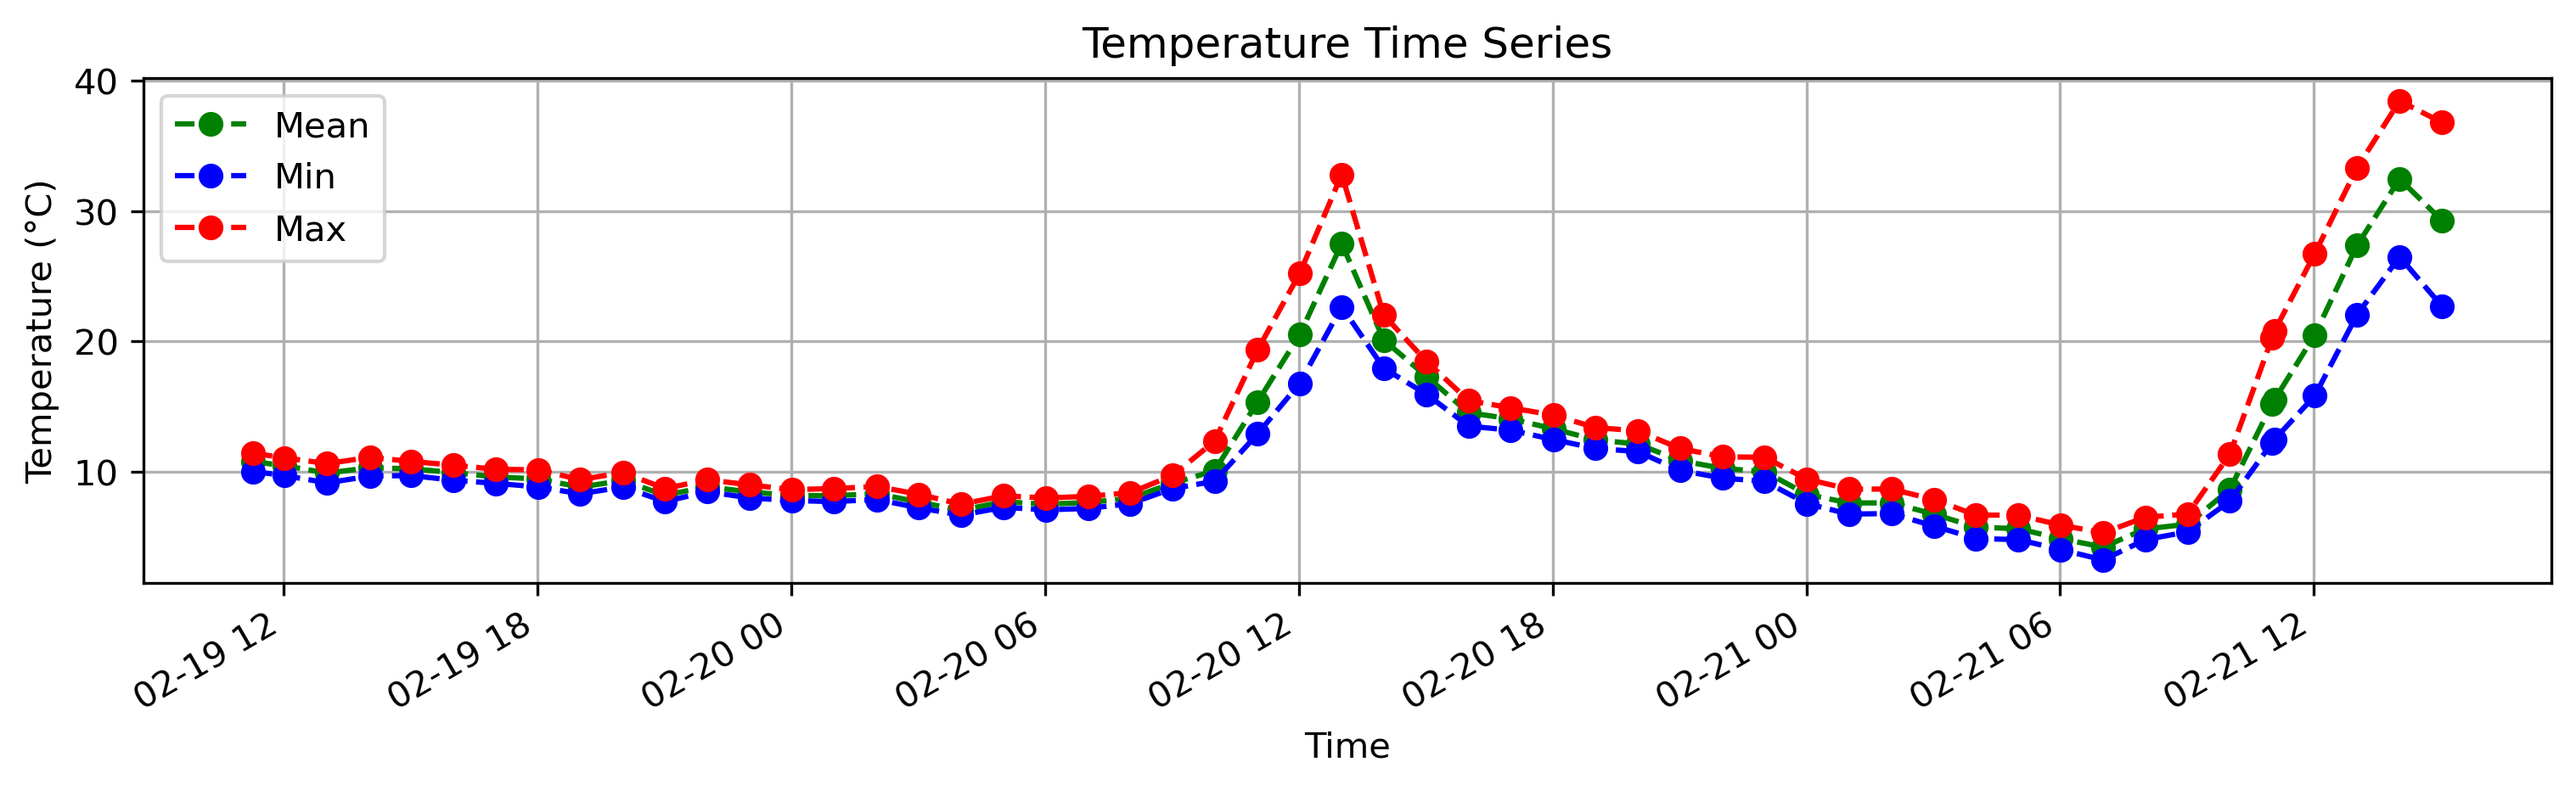
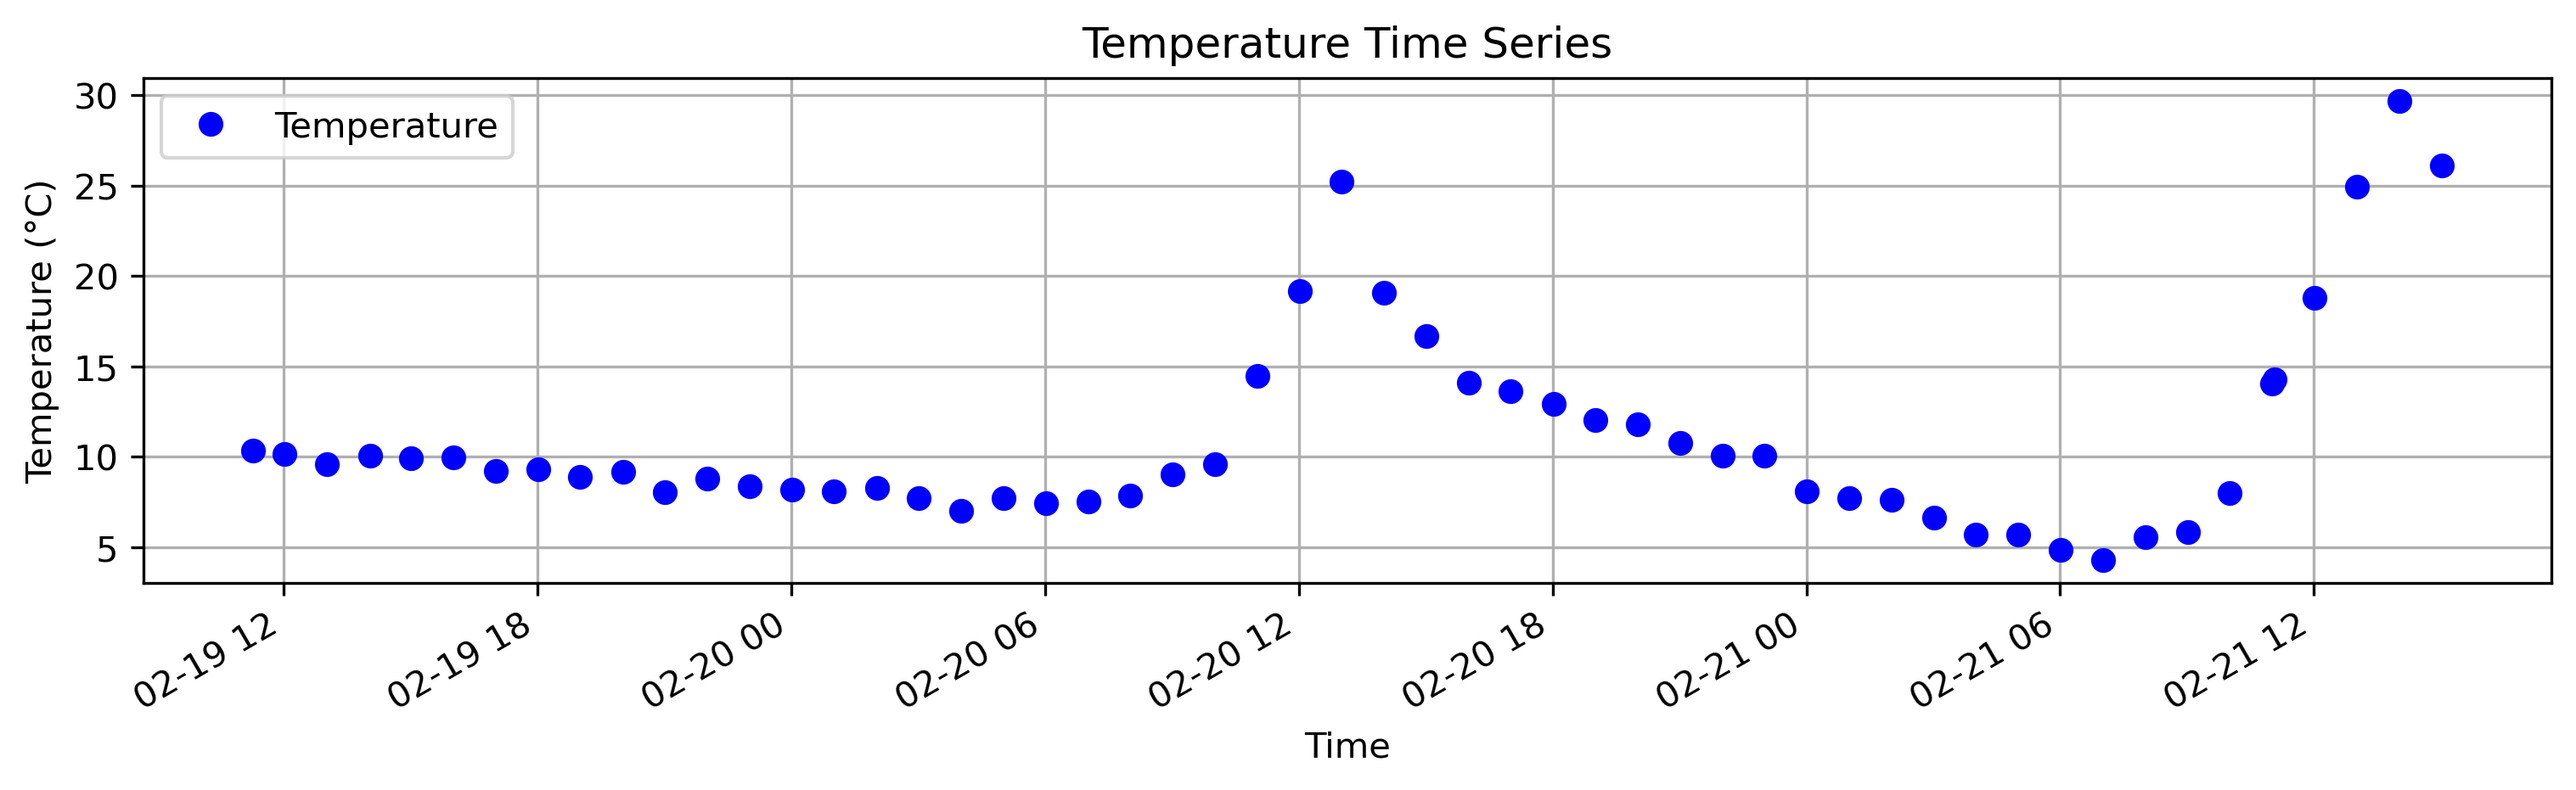
Version 1.1.0 New feature added: export time series data as CSV file. New func added to thermal_plot

Changed region(s): [[0.031, 0.0934, 0.9914, 0.7164]]

diff --git a/thermal_analyzer/thermal_plot.py b/thermal_analyzer/thermal_plot.py
@@ -1,4 +1,6 @@
 import numpy as np
+import pandas as pd
+from datetime import datetime
 from matplotlib.figure import Figure
 from matplotlib.backends.backend_tkagg import FigureCanvasTkAgg
 from matplotlib.patches import Polygon
@@ -16,6 +18,16 @@ class ThermalPlotter:
         self.ax_timeseries = None
         self.canvas_timeseries = None
         self.polygon_patch = None
+        
+        # Store time series data for CSV export
+        self.current_timeseries_data = {
+            'timestamps': None,
+            'values': None,
+            'mins': None,
+            'maxs': None,
+            'selection_type': None # point or polygon
+            }
+        
         self.setup_plots()
 
     def setup_plots(self):
@@ -90,6 +102,12 @@ class ThermalPlotter:
     def plot_time_series(self, timestamps, values, mins=None, maxs=None):
         """Plot time series data (single point or polygon statistics)"""
         self.ax_timeseries.clear()
+        # Store the current time series data for CSV export
+        self.current_timeseries_data['timestamps'] = timestamps
+        self.current_timeseries_data['values'] = values
+        self.current_timeseries_data['mins'] = mins
+        self.current_timeseries_data['maxs'] = maxs
+        self.current_timeseries_data['selection_type'] = 'point' if mins is None and maxs is None else 'polygon'
         
         if mins is None and maxs is None:
             # Single point time series
@@ -108,20 +126,6 @@ class ThermalPlotter:
         self.ax_timeseries.legend()
         self.ax_timeseries.grid(True)
         
-        self.canvas_timeseries.draw()
-        
-    def clear_selection(self):
-        """Clear current selection (point or polygon) and markers"""
-        if self.polygon_patch:
-            self.polygon_patch.remove()
-            self.polygon_patch = None
-        
-        # Clear any point markers
-        for artist in self.ax_thermal.lines:
-            artist.remove()
-        
-        self.canvas_thermal.draw()
-        self.ax_timeseries.clear()
         self.canvas_timeseries.draw()
 
     def clear_polygon(self):
@@ -191,7 +195,7 @@ class ThermalPlotter:
         return mask
 
     def save_plots(self, base_filename):
-        """Save both thermal and time series plots"""
+        """Save both thermal and time series plots, and time series data as CSV"""
         # Save thermal image plot
         thermal_filename = f"{base_filename}_thermal.png"
         self.fig_thermal.savefig(thermal_filename, bbox_inches='tight', dpi=300)
@@ -199,9 +203,66 @@ class ThermalPlotter:
         # Save time series plot
         timeseries_filename = f"{base_filename}_timeseries.png"
         self.fig_timeseries.savefig(timeseries_filename, bbox_inches='tight', dpi=300)
+
+        # Save time series data as CSV if available
+        csv_filename = None
+        if self.current_timeseries_data['timestamps'] is not None:
+            csv_filename = f"{base_filename}_timeseries.csv"
+            self._export_timeseries_data(csv_filename)
         
-        return thermal_filename, timeseries_filename
+        return thermal_filename, timeseries_filename, csv_filename
+    
+    def _export_timeseries_data(self, filename):
+        """Export time series data to CSV file"""
+        # Create a dictionary to store the data
+        data_dict = {
+            'Timestamp': [ts.strftime('%Y-%m-%d %H:%M:%S') 
+                        for ts in self.current_timeseries_data['timestamps']]
+                        }
         
+        if self.current_timeseries_data['selection_type'] == 'point':
+            # Single point data
+            data_dict['Temperature'] = self.current_timeseries_data['values']
+        else:
+            # Polygon region statistics
+            data_dict.update({
+                'Mean_Temperature': self.current_timeseries_data['values'],
+                'Min_Temperature': self.current_timeseries_data['mins'],
+                'Max_Temperature': self.current_timeseries_data['maxs']
+                })
+        
+        # Create DataFrame and save to CSV
+        df = pd.DataFrame(data_dict)
+        # Format floating point numbers to have consistent precision
+        for col in df.select_dtypes(include=['float64']).columns:
+            df[col] = df[col].round(3)
+
+        df.to_csv(filename, index=False)
+
+        return
+    def clear_selection(self):
+        """Clear current selection (point or polygon) and markers"""
+        if self.polygon_patch:
+            self.polygon_patch.remove()
+            self.polygon_patch = None
+        
+        # Clear any point markers
+        for artist in self.ax_thermal.lines:
+            artist.remove()
+        
+        # Clear stored time series data
+        self.current_timeseries_data = {
+            'timestamps': None,
+            'values': None,
+            'mins': None,
+            'maxs': None,
+            'selection_type': None
+            }
+
+        self.canvas_thermal.draw()
+        self.ax_timeseries.clear()
+        self.canvas_timeseries.draw()
+
     def get_click_handler(self):
         """Return the canvas for click event binding"""
         return self.canvas_thermal

diff --git a/thermal_analyzer/main.py b/thermal_analyzer/main.py
@@ -253,7 +253,7 @@ class ThermalImageGUI:
         self.collecting_points = False
         self.selected_point = None
         self.plotter.clear_selection()
-
+    
     def calculate_time_series(self):
         """Calculate and plot time series for point or polygon selection"""
         if self.selection_mode == "point" and self.selected_point:
@@ -279,15 +279,21 @@ class ThermalImageGUI:
                 data = ThermalDataHandler.load_csv_data(csv_file)
                 masked_data = data[mask]
                 
-                means.append(np.mean(masked_data))
-                mins.append(np.min(masked_data))
-                maxs.append(np.max(masked_data))
+                if len(masked_data) > 0:  # Ensure we have data points in the polygon
+                    means.append(np.mean(masked_data))
+                    mins.append(np.min(masked_data))
+                    maxs.append(np.max(masked_data))
+                else:
+                    # Handle case where polygon contains no points
+                    means.append(np.nan)
+                    mins.append(np.nan)
+                    maxs.append(np.nan)
             
             # Plot polygon statistics time series
             self.plotter.plot_time_series(self.timestamps, means, mins, maxs)
 
     def save_plots(self):
-        """Save current plots as image files"""
+        """Save current plots as image files and time series data as CSV"""
         if self.current_data is None or len(self.csv_files) == 0:
             tk.messagebox.showwarning("Warning", "No data to save. Please load data first.")
             return
@@ -301,17 +307,21 @@ class ThermalImageGUI:
                 timestamp = self.timestamps[self.current_image_index].strftime("%Y%m%d_%H%M%S")
                 base_filename = os.path.join(save_dir, f"thermal_analysis_{timestamp}")
                 
-                # Save plots
-                thermal_file, timeseries_file = self.plotter.save_plots(base_filename)
+                # Save plots and CSV
+                thermal_file, timeseries_file, csv_file = self.plotter.save_plots(base_filename)
                 
-                # Show success message with saved file paths
-                message = f"Plots saved successfully:\n\n" \
+                # Build success message
+                message = f"Files saved successfully:\n\n" \
                          f"Thermal Image: {os.path.basename(thermal_file)}\n" \
-                         f"Time Series: {os.path.basename(timeseries_file)}"
+                         f"Time Series Plot: {os.path.basename(timeseries_file)}"
+                
+                if csv_file:
+                    message += f"\nTime Series Data: {os.path.basename(csv_file)}"
+                
                 tk.messagebox.showinfo("Success", message)
                 
             except Exception as e:
-                tk.messagebox.showerror("Error", f"Error saving plots: {str(e)}")
+                tk.messagebox.showerror("Error", f"Error saving files: {str(e)}")
 
     def clear_workspace(self):
         """Reset the entire workspace to initial state"""

diff --git a/thermal_analyzer/utils/config.py b/thermal_analyzer/utils/config.py
@@ -8,7 +8,7 @@ from typing import Optional
 class Config:
     # Application settings
     APP_NAME: str = "Thermal Image Analyzer"
-    VERSION: str = "1.0.0"
+    VERSION: str = "1.1.0"
     
     # Development info
     DEVELOPER: str = "Giandomenico Mastrantoni"
